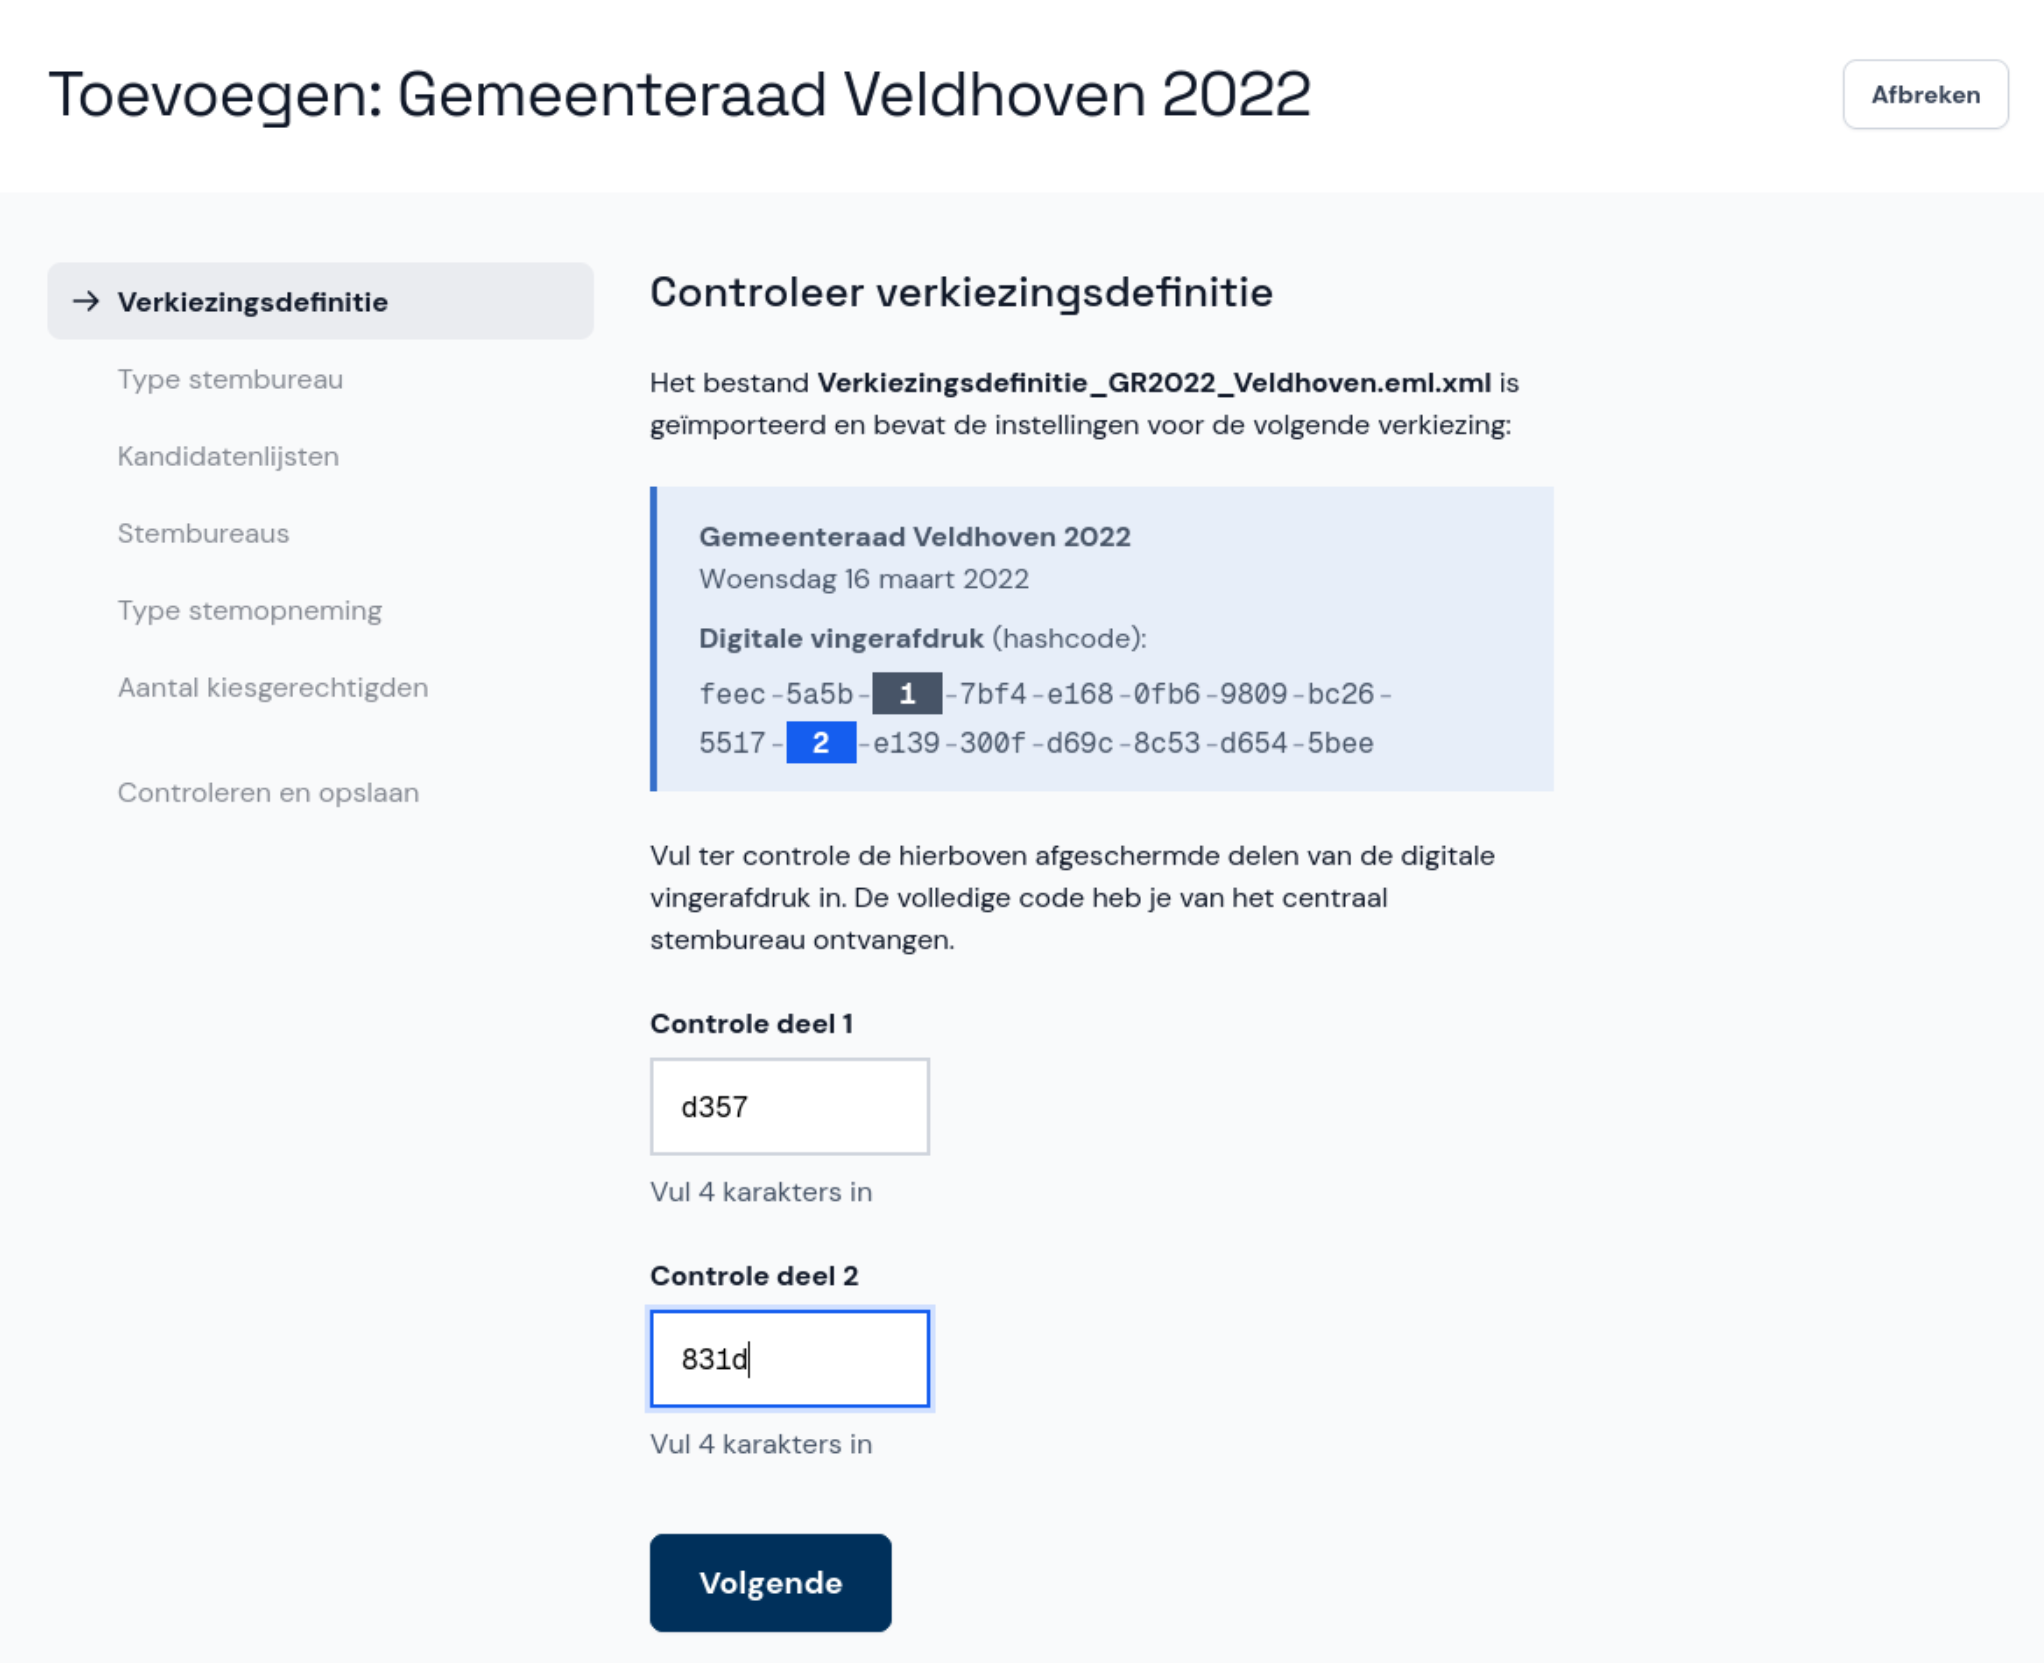
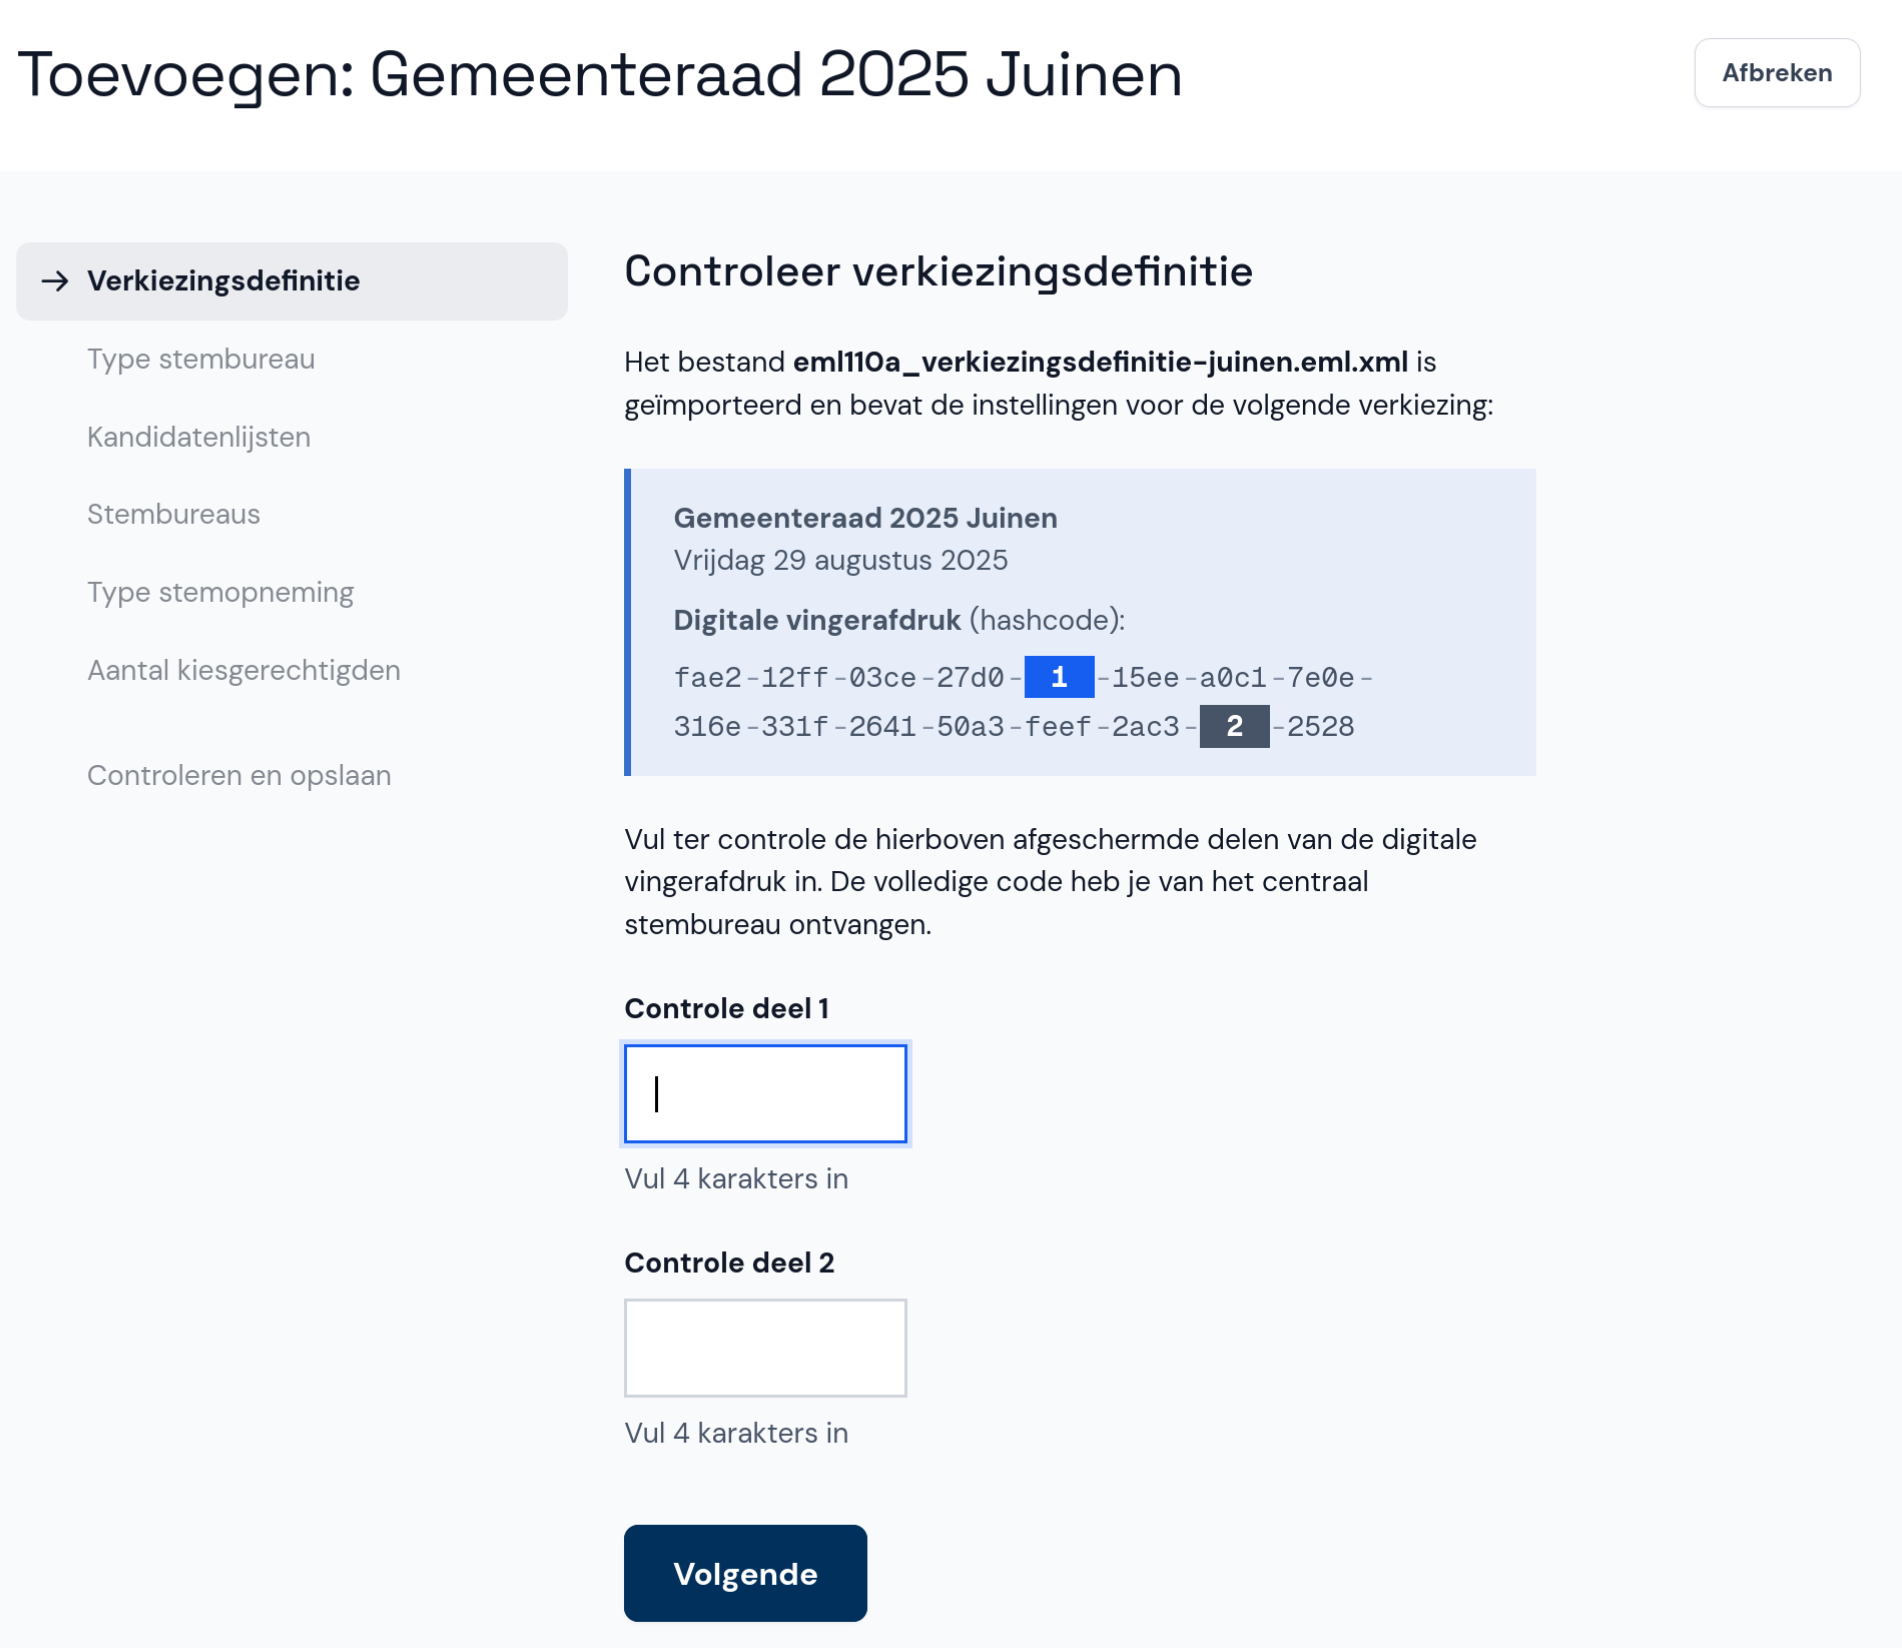
Afbeeldingen vervangen
- Afbeeldingen vervangen door afbeeldingen met voorbeeldverkiezing Juinen
- Naam verkiezing-toevoegen-rol-stembureau in afbeeldingen vervangen door verkiezing-toevoegen-type-stembureau

diff --git a/gebruikersdocumentatie/src/beheerder/verkiezing-beheren/type-stembureau.md b/gebruikersdocumentatie/src/beheerder/verkiezing-beheren/type-stembureau.md
@@ -2,4 +2,4 @@
 
 Hier geef je aan voor welk type stembureau je Abacus wilt gebruiken. Selecteer **Gemeentelijk stembureau (GSB)** en dan **Volgende**.
 
-![Rol van het stembureau selecteren](./img/verkiezing-toevoegen-rol-stembureau-gsb.png)
+![Rol van het stembureau selecteren](./img/verkiezing-toevoegen-type-stembureau-gsb.png)

diff --git a/gebruikersdocumentatie/src/beheerder-csb/verkiezing-beheren/type-stembureau.md b/gebruikersdocumentatie/src/beheerder-csb/verkiezing-beheren/type-stembureau.md
@@ -2,4 +2,4 @@
 
 Hier geef je aan voor welk type stembureau je Abacus wilt gebruiken. Selecteer **Centraal stembureau (CSB)** en dan **Volgende**.
 
-![Rol van het stembureau selecteren](./img/verkiezing-toevoegen-rol-stembureau-csb.png)
+![Rol van het stembureau selecteren](./img/verkiezing-toevoegen-type-stembureau-csb.png)
